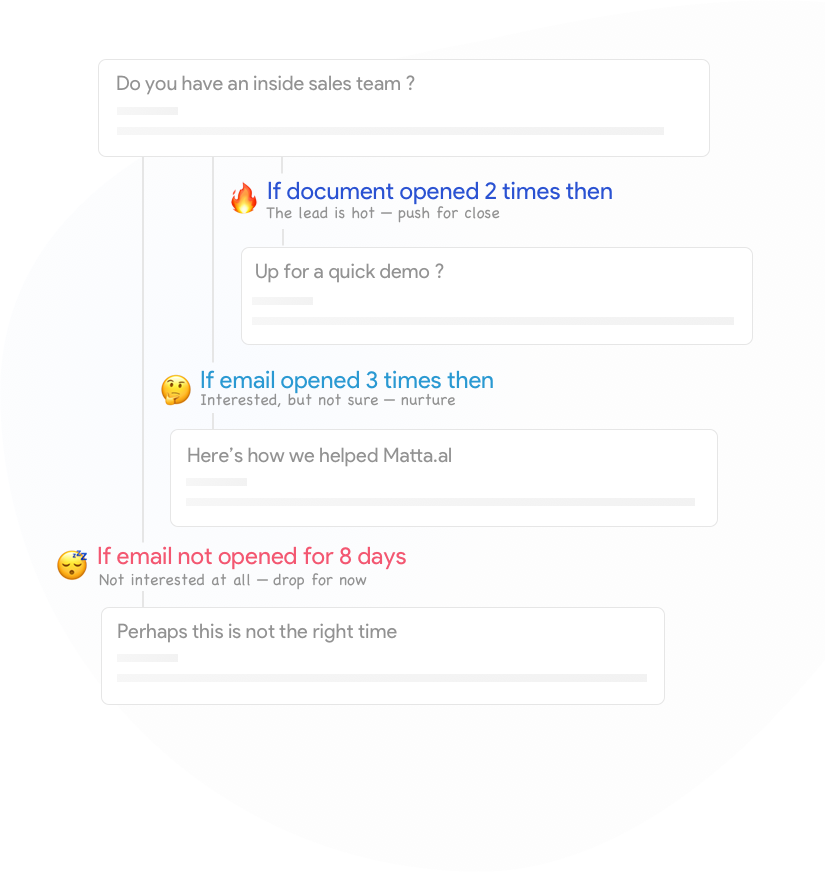
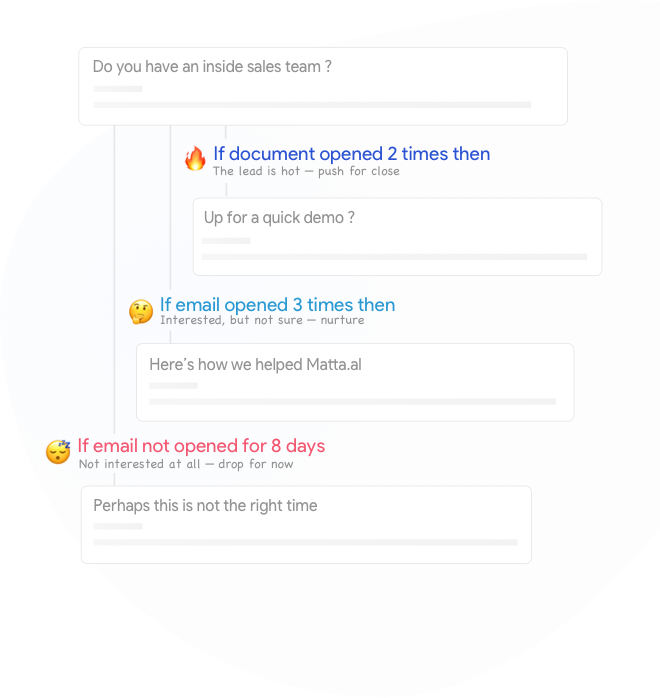
See card 80 on trello

diff --git a/src/components/pages/index/testimonies.js b/src/components/pages/index/testimonies.js
@@ -2,6 +2,9 @@ import React from 'react'
 
 import SubHeader from 'components/subHeader'
 import injectIsMobile from 'components/injectIsMobile'
+import vivekImage from 'assets/images/vivek.jpg'
+import anandImage from 'assets/images/anand.jpeg'
+import TarekImage from 'assets/images/tarek.png'
 
 const Testimony = ({
   title,
@@ -13,11 +16,11 @@ const Testimony = ({
   isMobile,
 }) => (
   <div
-    className="w-100 fl-ns pa4 w-25-ns"
+    className="w-100 fl-ns pa4 w-33-ns"
     style={{ marginTop: isMobile ? 0 : marginTop }}
   >
     <div className="pa3 ba b--lightest-gray br2">
-      <div className="">{body}</div>
+      <div className="" dangerouslySetInnerHTML={{ __html: body }} />
     </div>
     <div className="cf f6">
       <div className="fl w-30 tr">
@@ -37,40 +40,32 @@ const Testimony = ({
 
 const testimonies = [
   {
-    body:
-      'Running a campaign was so easy and automation around intent helped us generate quality leads. We do not spend much time on follow ups now, they (Speer) do it for us.',
-    avatar: 'http://i.pravatar.cc/400?img=38',
-    name: 'Gareth Bael',
-    designation: 'CEO, Meta Labs',
-    marginTop: -30,
+    body: `A major part of my job is to reach out and sell on email and I've used everything I can get my hands on. <br/><br/> I liked the authenticity of their message. It's true that most customers hate outreach emails. This app helps me reach out only to those who intend to buy.`,
+    avatar: anandImage,
+    name: 'Anand Chowdhary',
+    designation: 'CEO, Oswald Labs',
+    marginTop: -20,
   },
   {
     body:
-      'Me and my team were hesitant befor the trial, but after using the app for 2 months, our conversion rates have increased. Their analytics helped us figure out which leads should we focus on. They were strinkingly, on point with that.',
-    avatar: 'http://i.pravatar.cc/400?img=68',
+      'Their analytics helped us find leads we should focus on. They were strinkingly, on point with that.',
+    avatar: vivekImage,
     name: 'Vivek Goel',
-    designation: 'CEO, FlowApp',
-    marginTop: 40,
-  },
-  {
-    body: `A major part of my job is to reach out and sell on email and I've used everything I can get my hands on. I liked the authenticity of their message. It's true that most customers hate outreach emails. This app helps me reach out only to those who intend to buy.`,
-    avatar: 'http://i.pravatar.cc/400?img=12',
-    name: 'Gareth Bael',
-    designation: 'CEO, Meta Labs',
-    marginTop: 24,
+    designation: 'CEO, Emanant Technologies',
+    marginTop: 0,
   },
   {
     body:
-      'Speer saved a lot of time for us and helped us priorties our outreach thereby have given us a great ROI. Lead nuturing can never be so easy for us, thanks to team behind Speer.',
-    avatar: 'http://i.pravatar.cc/400?img=5',
-    name: 'Gareth Bael',
-    designation: 'CEO, Meta Labs',
-    marginTop: -50,
+      'Running a campaign was very easy and automation around intent helped us generate quality leads.<br/> <br/>We do not spend much time on follow ups now, they (Speer) do it for us.',
+    avatar: TarekImage,
+    name: 'Tarek Gethe',
+    designation: 'Head of Sales, Germany, A11Y.co',
+    marginTop: -20,
   },
 ]
 
 const Testimonies = ({ isMobile }) => (
-  <div className="mt4 mt0-ns">
+  <div className="mt4 mt0-ns w-100 w-90-ns center">
     <SubHeader title="Testimonies" />
     <div className="cf pv4">
       {testimonies.map((t, i) => (

diff --git a/src/components/pages/index/howItWorks.js b/src/components/pages/index/howItWorks.js
@@ -4,8 +4,10 @@ import activity from 'assets/icons/activity.svg'
 import compose from 'assets/icons/edit-3.svg'
 import link from 'assets/icons/link.svg'
 import message from 'assets/icons/message-square.svg'
-import screenshot from 'assets/screenshots/106.png'
+import screenshot004 from 'assets/screenshots/004.png'
+import screenshot106 from 'assets/screenshots/106.png'
 import screenshot104 from 'assets/screenshots/104.png'
+import screenshot107 from 'assets/screenshots/107.png'
 import SubHeader from 'components/subHeader'
 import injectIsMobile from 'components/injectIsMobile'
 
@@ -15,7 +17,7 @@ const steps = [
     body:
       'Connect you email account to Speer, all messages are sent from your personal email.',
     icon: link,
-    screenshot: screenshot,
+    screenshot: screenshot004,
   },
   {
     label: 'Create',
@@ -27,23 +29,22 @@ const steps = [
     label: 'Send',
     body: 'Send at scale or individually.',
     icon: message,
-    screenshot: screenshot,
+    screenshot: screenshot106,
   },
   {
     label: 'Analyse',
     body: 'Analyse your outreach. Find the most interested leads.',
     icon: activity,
-    screenshot: screenshot,
+    screenshot: screenshot107,
   },
 ]
 
 const Tabs = ({ steps, activeTab, onClick, isMobile }) => {
-  const activeStep = steps.find(s => s.label === activeTab)
   return (
     <div>
       <div className="cf w-80 w-60-ns center">
         {steps.map((s, i) => (
-          <div key={i} className="fl w-25 tc gray">
+          <div key={i} className="fl w-25 tc gray cf">
             <div
               className={`dib br-100 ba dim pointer ${
                 activeTab === s.label ? 'b--light-blue' : 'b--lightest-gray'
@@ -58,12 +59,16 @@ const Tabs = ({ steps, activeTab, onClick, isMobile }) => {
           </div>
         ))}
       </div>
-      <div className="tc">
-        <div className="gray f4 mt4">{activeStep.body}</div>
-        <img
-          src={activeStep.screenshot}
-          className="w-50 ba b--black-20 shadow-2 br3 mt3"
-        />
+      <div className="mt4">
+        {steps.map((s, i) => (
+          <div className={`tc ${activeTab === s.label ? '' : 'dn'}`} key={i}>
+            <div className="gray f4">{s.body}</div>
+            <img
+              src={s.screenshot}
+              className="w-50 ba b--black-20 shadow-2 br3 mt3"
+            />
+          </div>
+        ))}
       </div>
     </div>
   )

diff --git a/src/components/post.js b/src/components/post.js
@@ -2,20 +2,23 @@ import React from 'react'
 import Helmet from 'react-helmet'
 
 const Post = ({ data: { markdownRemark: post } }) => {
+  const { tags, isFixedPage } = post.frontmatter
   return (
     <div className="min-vh-100 w-90 w-50-ns center">
-      <div className="cf">
-        <div className="fl w-50 f6 black-60">
-          {post.frontmatter.tags &&
-            post.frontmatter.tags.map((t, i) => (
-              <div className="dib mr2" key={i}>
-                #{t}
-              </div>
-            ))}
-        </div>
+      {!isFixedPage && (
+        <div className="cf">
+          <div className="fl w-50 f6 black-60">
+            {tags &&
+              tags.map((t, i) => (
+                <div className="dib mr2" key={i}>
+                  #{t}
+                </div>
+              ))}
+          </div>
 
-        <div className="fl w-50 tr f6 black-60">{post.frontmatter.date}</div>
-      </div>
+          <div className="fl w-50 tr f6 black-60">{post.frontmatter.date}</div>
+        </div>
+      )}
 
       <h1 className="f2 f1-ns">{post.frontmatter.title}</h1>
       <div dangerouslySetInnerHTML={{ __html: post.html }} />
@@ -32,6 +35,7 @@ export const pageQuery = graphql`
         path
         title
         date(formatString: "MMMM DD, YYYY")
+        isFixedPage
       }
     }
   }

diff --git a/src/components/pages/index/notSure.js b/src/components/pages/index/notSure.js
@@ -27,7 +27,7 @@ const NotSure = ({ isMobile }) => (
         <div className="fl w-20">
           <img src={manThinking} className="h-100" />
         </div>
-        <div className="fl w-60 ph3 ph0-ns">
+        <div className="fl w-60 ph3 ph0-ns mt5">
           <div className="tc">
             <div className="black-40 f3 f2-ns mb4">
               Not sure if Speer is for you ?
@@ -42,7 +42,7 @@ const NotSure = ({ isMobile }) => (
             </div>
           </div>
 
-          <div className="mt3 mt5-ns tc">
+          {/*<div className="mt3 mt5-ns tc">
             <CaseStudy
               title={'Case Study'}
               isMobile={isMobile}
@@ -53,7 +53,7 @@ const NotSure = ({ isMobile }) => (
               isMobile={isMobile}
               body={'How a company used Speer and did x'}
             />
-          </div>
+          </div>*/}
         </div>
         <div className="fl w-20">
           <img src={manExplaining} className="h-100" />

diff --git a/src/pages/blog.js b/src/pages/blog.js
@@ -1,6 +1,7 @@
 import React from 'react'
 
 import Hero from 'components/pages/blog/hero'
+import Tags from 'components/pages/blog/tags'
 import PostLink from 'components/pages/blog/postLink'
 
 const Blog = ({
@@ -8,10 +9,19 @@ const Blog = ({
     allMarkdownRemark: { edges },
   },
 }) => {
+  const tagList = edges
+    .reduce(
+      (accumulator, e) => [...accumulator, ...e.node.frontmatter.tags],
+      []
+    )
+    .filter(t => t)
   return (
     <div>
       <Hero />
-      <div className="w-90 w-50-ns center mt4 pt4 bt b--black-10">
+      <div className="w-90 w-50-ns center mt4 pt2 bt b--lightest-gray">
+        <div className="bb b--lightest-gray pb2 mb4">
+          <Tags tagList={tagList} />
+        </div>
         {edges
           .filter(edge => !edge.node.frontmatter.isFixedPage)
           .map(edge => <PostLink key={edge.node.id} post={edge.node} />)}

diff --git a/src/components/pages/blog/postLink.js b/src/components/pages/blog/postLink.js
@@ -10,17 +10,18 @@ const PostLink = ({
   return (
     <Link to={path}>
       <div className="pa3 br2 ba b--lightest-gray dim pointer">
-        <div>
+        <div className="f3">{title}</div>
+        <div className="black-40">{date}</div>
+        <div className="mt3">{excerpt}</div>
+
+        <div className="mt3">
           {tags &&
             tags.map((t, i) => (
-              <span key={i} className="f7 lighter-gray ttu b">
+              <span key={i} className="f7 lighter-gray ttu b mr3">
                 {t}
               </span>
             ))}
         </div>
-        <div className="f3 mt3">{title}</div>
-        <div className="black-40">{date}</div>
-        <div className="mt3">{excerpt}</div>
       </div>
     </Link>
   )

diff --git a/static/chaport.js b/static/chaport.js
@@ -1,0 +1,4 @@
+(function(w,d,v2){
+w.chaport = { app_id : '5b2f60bca34d1e18fd2f0a9b' };
+
+v2=w.chaport;v2._q=[];v2._l={};v2.q=function(){v2._q.push(arguments)};v2.on=function(e,fn){if(!v2._l[e])v2._l[e]=[];v2._l[e].push(fn)};var s=d.createElement('script');s.type='text/javascript';s.async=true;s.src='https://app.chaport.com/javascripts/insert.js';var ss=d.getElementsByTagName('script')[0];ss.parentNode.insertBefore(s,ss)})(window, document);

diff --git a/src/layouts/index.js b/src/layouts/index.js
@@ -14,7 +14,11 @@ const Layout = ({ children, data }) => {
           { name: 'description', content: 'Sample' },
           { name: 'keywords', content: 'sample, something' },
         ]}
-      />
+      >
+        {process.env.NODE_ENV === `production` && (
+          <script type="text/javascript" src="/chaport.js" />
+        )}
+      </Helmet>
       <div className="black">
         <div className="fixed w-100 z-1">
           <Nav />

diff --git a/gatsby-node.js b/gatsby-node.js
@@ -1,7 +1,8 @@
 const path = require('path')
 
 exports.createPages = ({boundActionCreators: {createPage}, graphql}) => {
-  const Post = path.resolve('src/components/post.js')
+  const Post = path.resolve('src/components/post.js') //render a post
+
   return graphql(`{
     allMarkdownRemark(
       sort: { order: DESC, fields: [frontmatter___date] }

diff --git a/src/components/pages/blog/tags.js b/src/components/pages/blog/tags.js
@@ -1,0 +1,13 @@
+import React from 'react'
+
+const Tags = ({ tagList }) => {
+  return (
+    <div>
+      {tagList.map(t => (
+        <div className="light-blue b dib mr4 pointer dim">{`#${t}`}</div>
+      ))}
+    </div>
+  )
+}
+
+export default Tags

diff --git a/src/components/pages/index/hero.js b/src/components/pages/index/hero.js
@@ -24,7 +24,7 @@ const Hero = () => (
         </div>
       </div>
     </div>
-    <div className="w-100 w-50-ns fl-ns">
+    <div className="w-100 w-50-ns fl-ns tr">
       <img src={threadIllustration} />
     </div>
   </div>

diff --git a/src/posts/2018/a-new-beginning.md b/src/posts/2018/a-new-beginning.md
@@ -3,7 +3,7 @@ author: Shivek Khurana
 path: "/posts/2018/a-new-beginning"
 date: "2017-07-12T17:12:33.962Z"
 title: "A new beginning"
-tags: ["product"]
+tags: ["product", "business", "speer"]
 ---
 
 We started working on Speer almost 2 years ago. It wasn't what it is today.
